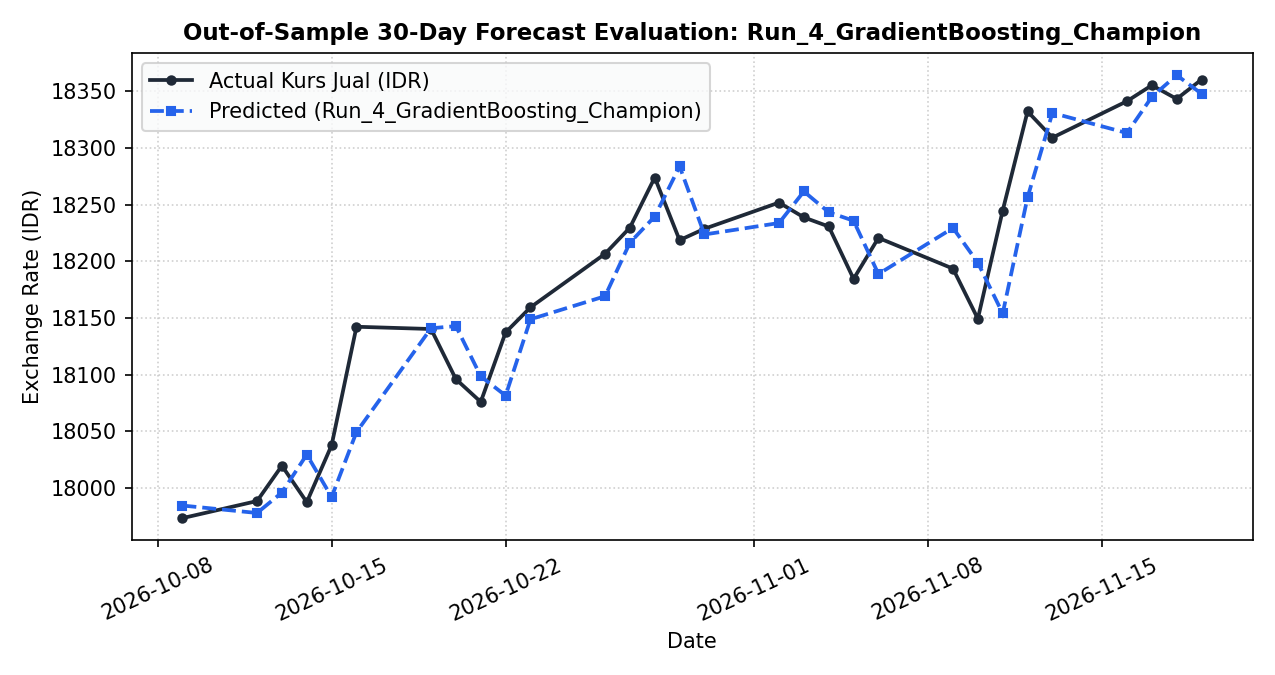
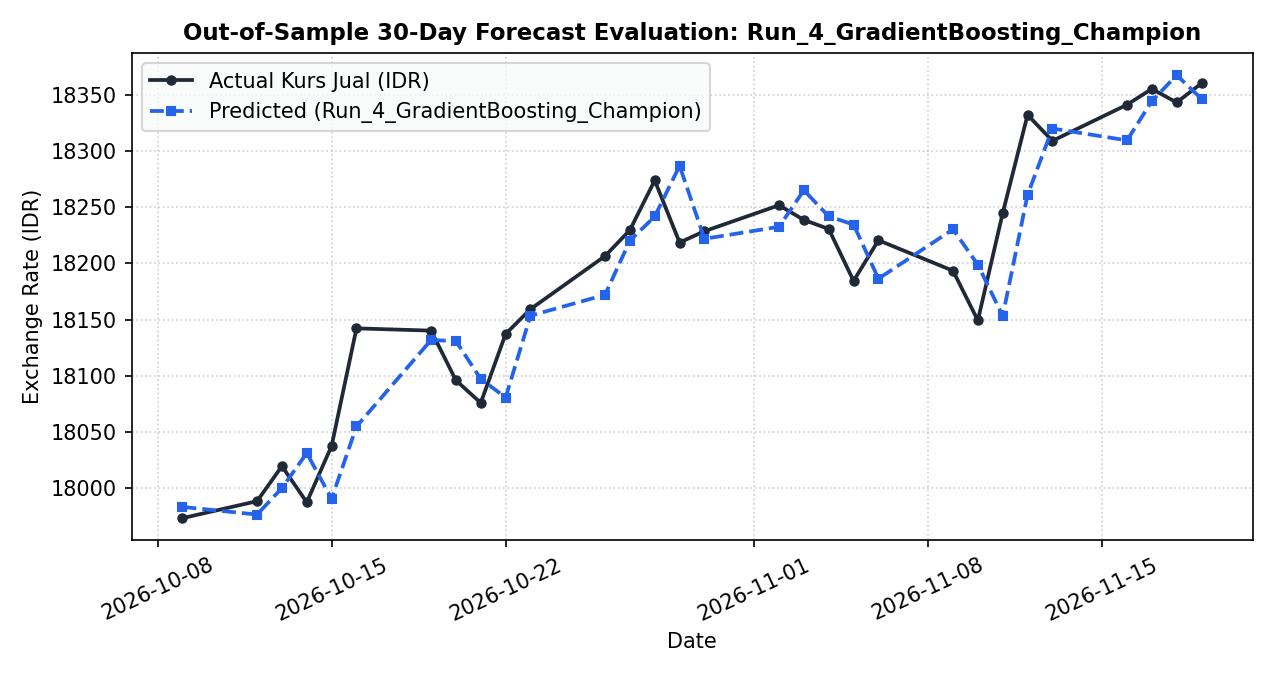
ci(lk08): trigger automated retraining on genuine BI dataset with tuned Huber GBR hyperparameters

diff --git a/src/train.py b/src/train.py
@@ -298,8 +298,8 @@ def run_experiment_pipeline(
             "model_family": "GradientBoosting",
             "model": DeltaForecastRegressor(
                 GradientBoostingRegressor(
-                    n_estimators=20,
-                    learning_rate=0.03,
+                    n_estimators=30,
+                    learning_rate=0.05,
                     max_depth=2,
                     subsample=0.8,
                     min_samples_leaf=15,
@@ -309,8 +309,8 @@ def run_experiment_pipeline(
             ),
             "params": {
                 "model_type": "DeltaGradientBoostingRegressor",
-                "n_estimators": 20,
-                "learning_rate": 0.03,
+                "n_estimators": 30,
+                "learning_rate": 0.05,
                 "max_depth": 2,
                 "subsample": 0.8,
                 "min_samples_leaf": 15,

diff --git a/train.py b/train.py
@@ -298,8 +298,8 @@ def run_experiment_pipeline(
             "model_family": "GradientBoosting",
             "model": DeltaForecastRegressor(
                 GradientBoostingRegressor(
-                    n_estimators=20,
-                    learning_rate=0.03,
+                    n_estimators=30,
+                    learning_rate=0.05,
                     max_depth=2,
                     subsample=0.8,
                     min_samples_leaf=15,
@@ -309,8 +309,8 @@ def run_experiment_pipeline(
             ),
             "params": {
                 "model_type": "DeltaGradientBoostingRegressor",
-                "n_estimators": 20,
-                "learning_rate": 0.03,
+                "n_estimators": 30,
+                "learning_rate": 0.05,
                 "max_depth": 2,
                 "subsample": 0.8,
                 "min_samples_leaf": 15,
